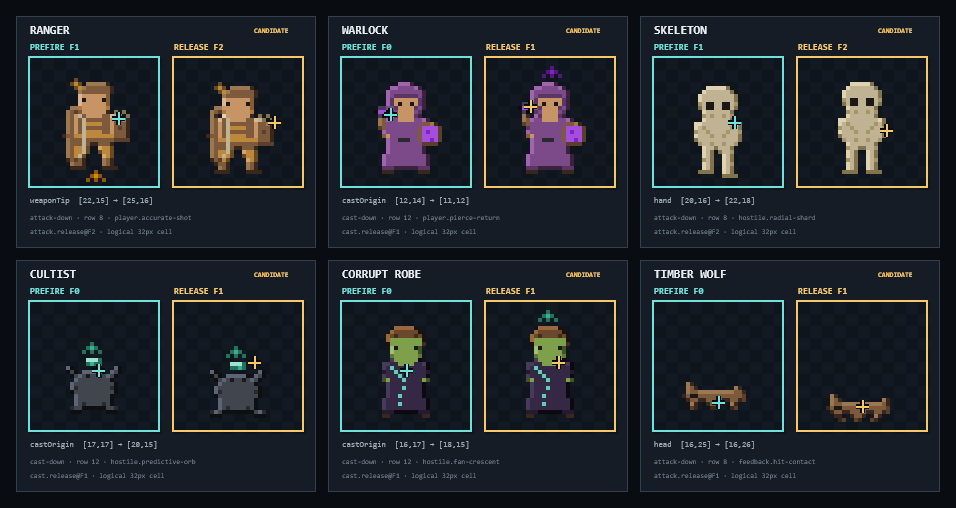
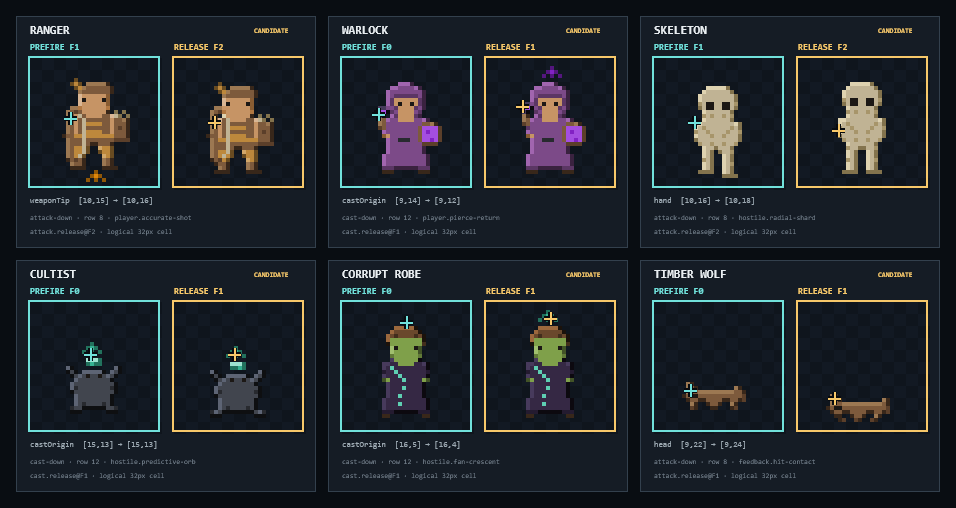
Correct six-actor socket positions

diff --git a/src/content/socket-review.ts b/src/content/socket-review.ts
@@ -47,7 +47,7 @@ export const SOCKET_REVIEW_CANDIDATES: SocketReviewCandidate[] = [
     releaseEvent: "attack.release",
     releaseFrame: 2,
     mainSocket: "weaponTip",
-    frames: anchors("weaponTip", [[19, 17], [22, 15], [25, 16]]),
+    frames: anchors("weaponTip", [[10, 17], [10, 15], [10, 16]]),
   },
   {
     actorId: "warlock",
@@ -59,7 +59,7 @@ export const SOCKET_REVIEW_CANDIDATES: SocketReviewCandidate[] = [
     releaseEvent: "cast.release",
     releaseFrame: 1,
     mainSocket: "castOrigin",
-    frames: anchors("castOrigin", [[12, 14], [11, 12], [12, 14]]),
+    frames: anchors("castOrigin", [[9, 14], [9, 12], [9, 14]]),
   },
   {
     actorId: "skeleton",
@@ -71,7 +71,7 @@ export const SOCKET_REVIEW_CANDIDATES: SocketReviewCandidate[] = [
     releaseEvent: "attack.release",
     releaseFrame: 2,
     mainSocket: "hand",
-    frames: anchors("hand", [[18, 18], [20, 16], [22, 18]]),
+    frames: anchors("hand", [[10, 18], [10, 16], [10, 18]]),
   },
   {
     actorId: "cultist",
@@ -83,7 +83,7 @@ export const SOCKET_REVIEW_CANDIDATES: SocketReviewCandidate[] = [
     releaseEvent: "cast.release",
     releaseFrame: 1,
     mainSocket: "castOrigin",
-    frames: anchors("castOrigin", [[17, 17], [20, 15]]),
+    frames: anchors("castOrigin", [[15, 13], [15, 13]]),
   },
   {
     actorId: "corruptrobe",
@@ -95,7 +95,7 @@ export const SOCKET_REVIEW_CANDIDATES: SocketReviewCandidate[] = [
     releaseEvent: "cast.release",
     releaseFrame: 1,
     mainSocket: "castOrigin",
-    frames: anchors("castOrigin", [[16, 17], [18, 15], [20, 14]]),
+    frames: anchors("castOrigin", [[16, 5], [16, 4], [16, 5]]),
   },
   {
     actorId: "timberwolf",
@@ -107,7 +107,7 @@ export const SOCKET_REVIEW_CANDIDATES: SocketReviewCandidate[] = [
     releaseEvent: "attack.release",
     releaseFrame: 1,
     mainSocket: "head",
-    frames: anchors("head", [[16, 25], [16, 26]], [16, 25], [16, 29]),
+    frames: anchors("head", [[9, 22], [9, 24]], [16, 25], [16, 29]),
   },
 ];
 

diff --git a/tests/evidence/socket-evidence.test.ts b/tests/evidence/socket-evidence.test.ts
@@ -83,7 +83,8 @@ describe("socket evidence report", () => {
     expect(JSON.parse(first)).toEqual(report);
   });
 
-  it("keeps the checked-in candidate artifact explicit and self-consistent", () => {
+  it("keeps the checked-in candidate artifact explicit and self-consistent", async () => {
+    const expected = await buildSocketEvidenceReport(evidencePixels());
     expect(checkedEvidenceReport).toMatchObject({
       forge: "tileforge-effect-forge",
       kind: "socket-release-review",
@@ -106,5 +107,9 @@ describe("socket evidence report", () => {
       true,
     );
     expect(checkedEvidenceReport.actors).toHaveLength(6);
+    expect(checkedEvidenceReport.source.bindingSha256).toBe(
+      expected.source.bindingSha256,
+    );
+    expect(checkedEvidenceReport.actors).toEqual(expected.actors);
   });
 });

diff --git a/tests/contract/socket-review.test.ts b/tests/contract/socket-review.test.ts
@@ -53,6 +53,24 @@ describe("six-actor socket and release candidates", () => {
     }
   });
 
+  it("keeps primary release sockets on the visually audited emission points", () => {
+    const releaseSockets = Object.fromEntries(
+      SOCKET_REVIEW_CANDIDATES.map((candidate) => [
+        candidate.actorId,
+        candidate.frames[candidate.releaseFrame]![candidate.mainSocket],
+      ]),
+    );
+
+    expect(releaseSockets).toEqual({
+      ranger: [10, 16],
+      warlock: [9, 12],
+      skeleton: [10, 18],
+      cultist: [15, 13],
+      corruptrobe: [16, 4],
+      timberwolf: [9, 24],
+    });
+  });
+
   it("compiles deterministic companion bindings without recording approval", () => {
     expect(SOCKET_REVIEW_STATUS).toEqual({
       state: "candidate",

diff --git a/docs/SOCKET_RELEASE_REVIEW.md b/docs/SOCKET_RELEASE_REVIEW.md
@@ -18,18 +18,24 @@ approved data.
 
 ## Candidate cast
 
-| Actor | Sequence | Source row | Frames | Primary anchor | Proposed release |
-| --- | --- | ---: | ---: | --- | ---: |
-| Ranger | attack-down | 8 | 3 | `weaponTip` | F2 |
-| Warlock | cast-down | 12 | 3 | `castOrigin` | F1 |
-| Skeleton | attack-down | 8 | 3 | `hand` | F2 |
-| Cultist | cast-down | 12 | 2 | `castOrigin` | F1 |
-| Corrupt robe | cast-down | 12 | 3 | `castOrigin` | F1 |
-| Timber wolf | attack-down | 8 | 2 | `head` | F1 |
+| Actor | Sequence | Source row | Frames | Primary anchor | Proposed release | Release point |
+| --- | --- | ---: | ---: | --- | ---: | --- |
+| Ranger | attack-down | 8 | 3 | `weaponTip` | F2 | `[10, 16]` |
+| Warlock | cast-down | 12 | 3 | `castOrigin` | F1 | `[9, 12]` |
+| Skeleton | attack-down | 8 | 3 | `hand` | F2 | `[10, 18]` |
+| Cultist | cast-down | 12 | 2 | `castOrigin` | F1 | `[15, 13]` |
+| Corrupt robe | cast-down | 12 | 3 | `castOrigin` | F1 | `[16, 4]` |
+| Timber wolf | attack-down | 8 | 2 | `head` | F1 | `[9, 24]` |
 
 The board also shows `hurtCenter` and `groundOrigin` supporting anchors. The
 timber wolf uses quadruped-specific centers rather than inherited humanoid
 coordinates.
+
+The candidate coordinates were visually re-audited after the first evidence
+sheet exposed right-side drift. Ranger and Skeleton now use the viewer-left
+weapon/hand, Corrupt robe uses the overhead rune, Timber wolf uses the
+viewer-left head, and the two remaining cast origins are centered on their
+visible sparks. These are repaired candidates, not recorded approvals.
 
 ## Review procedure
 
